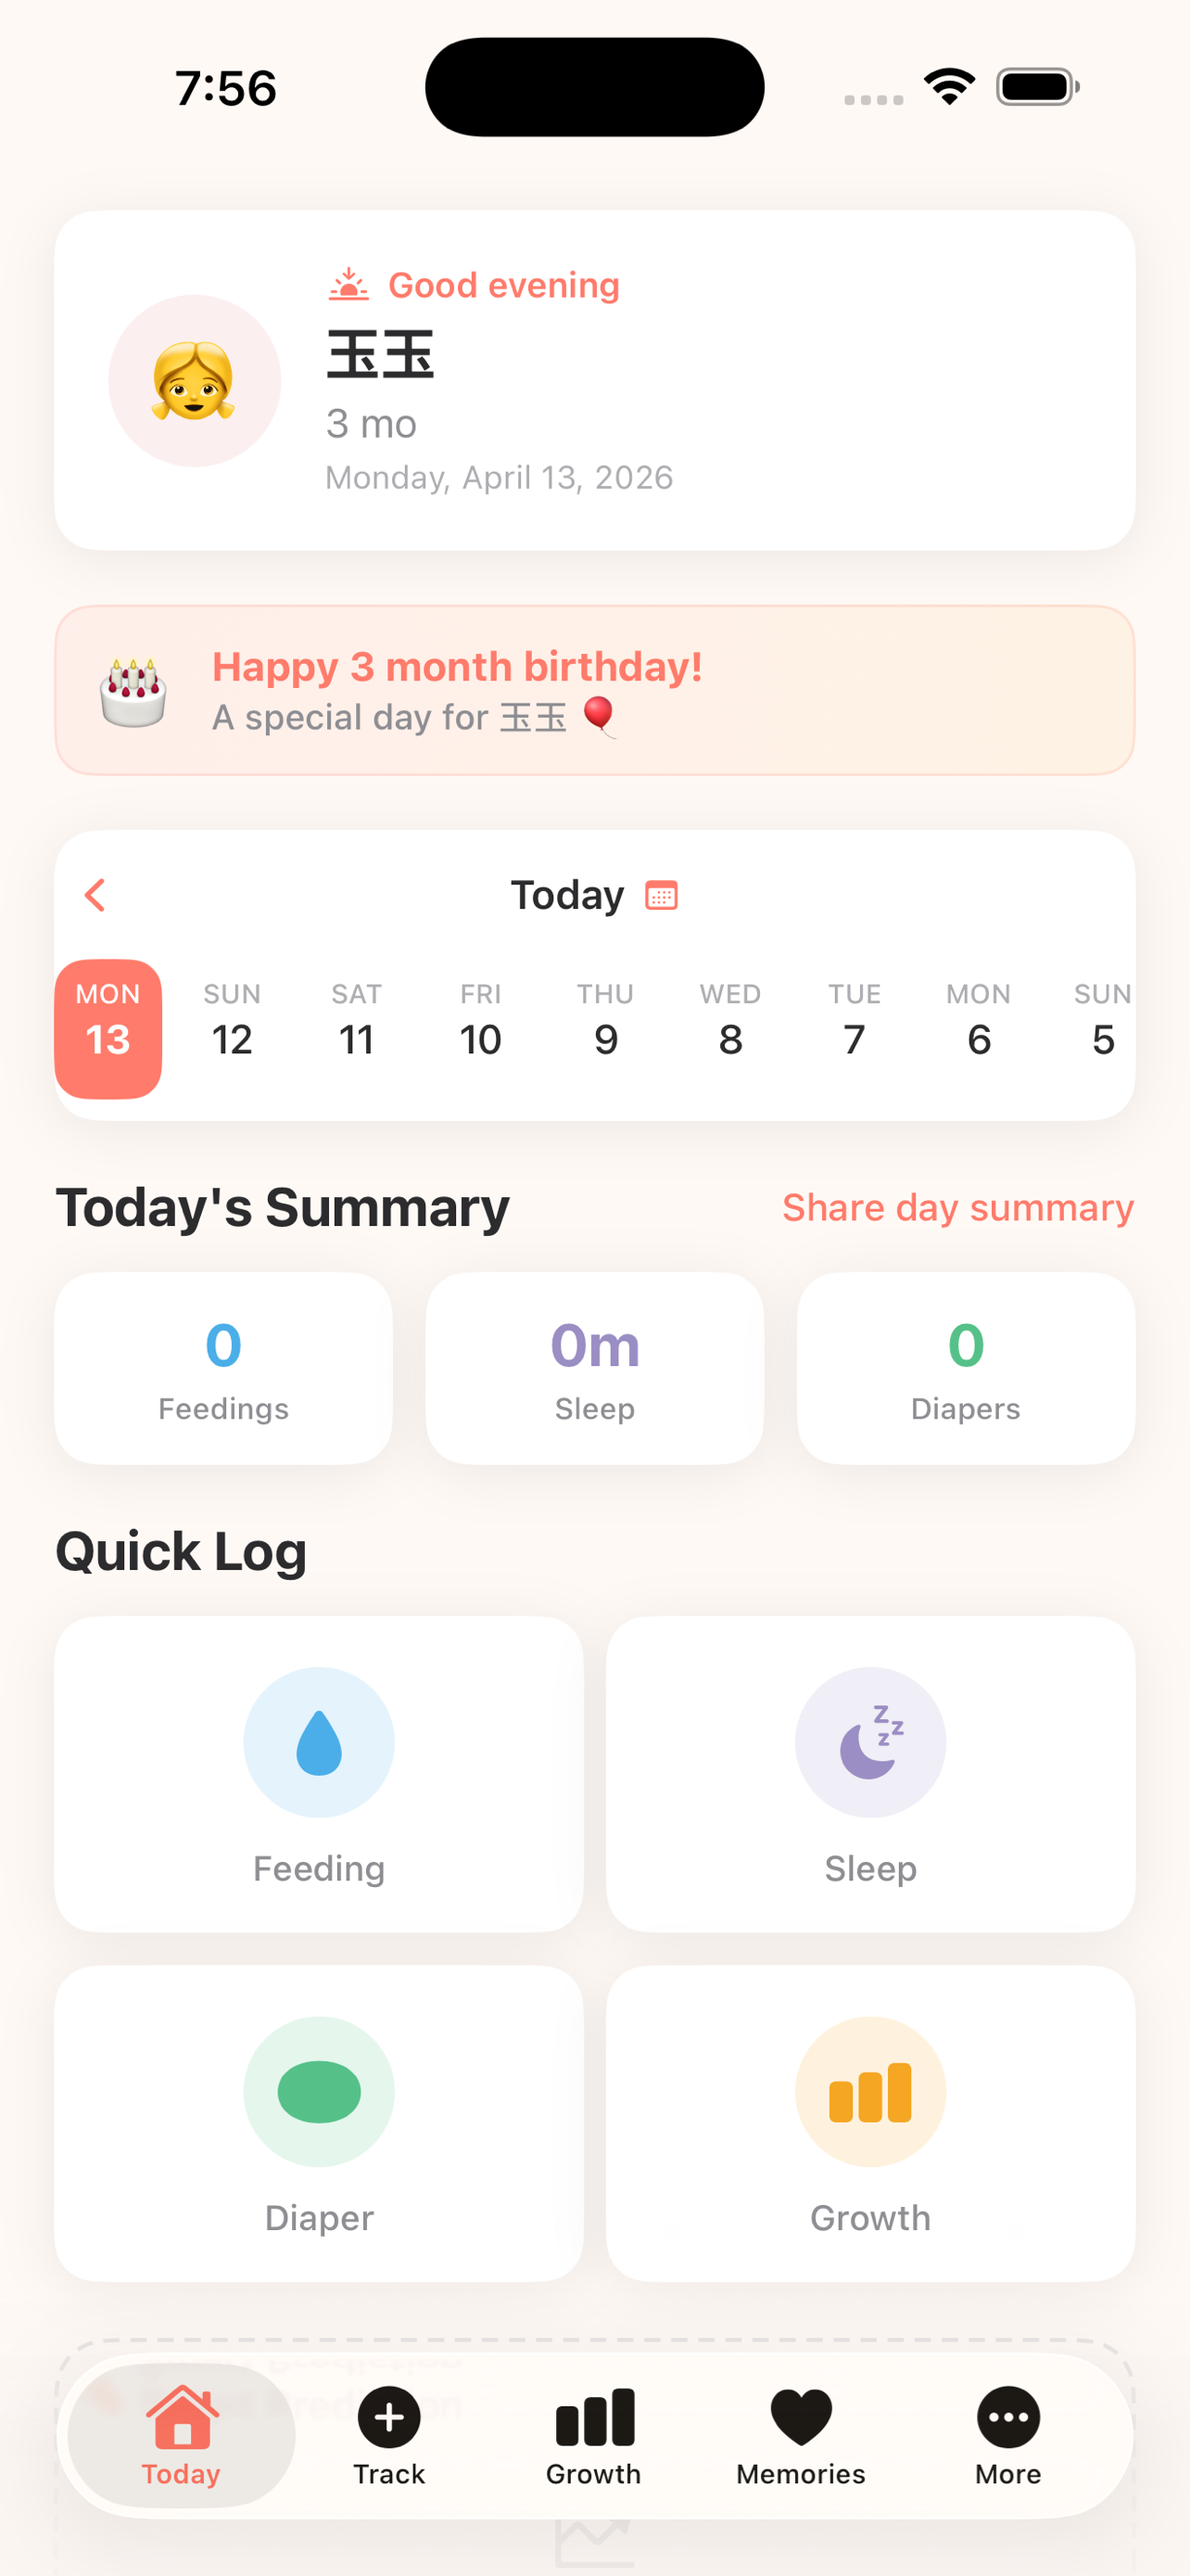
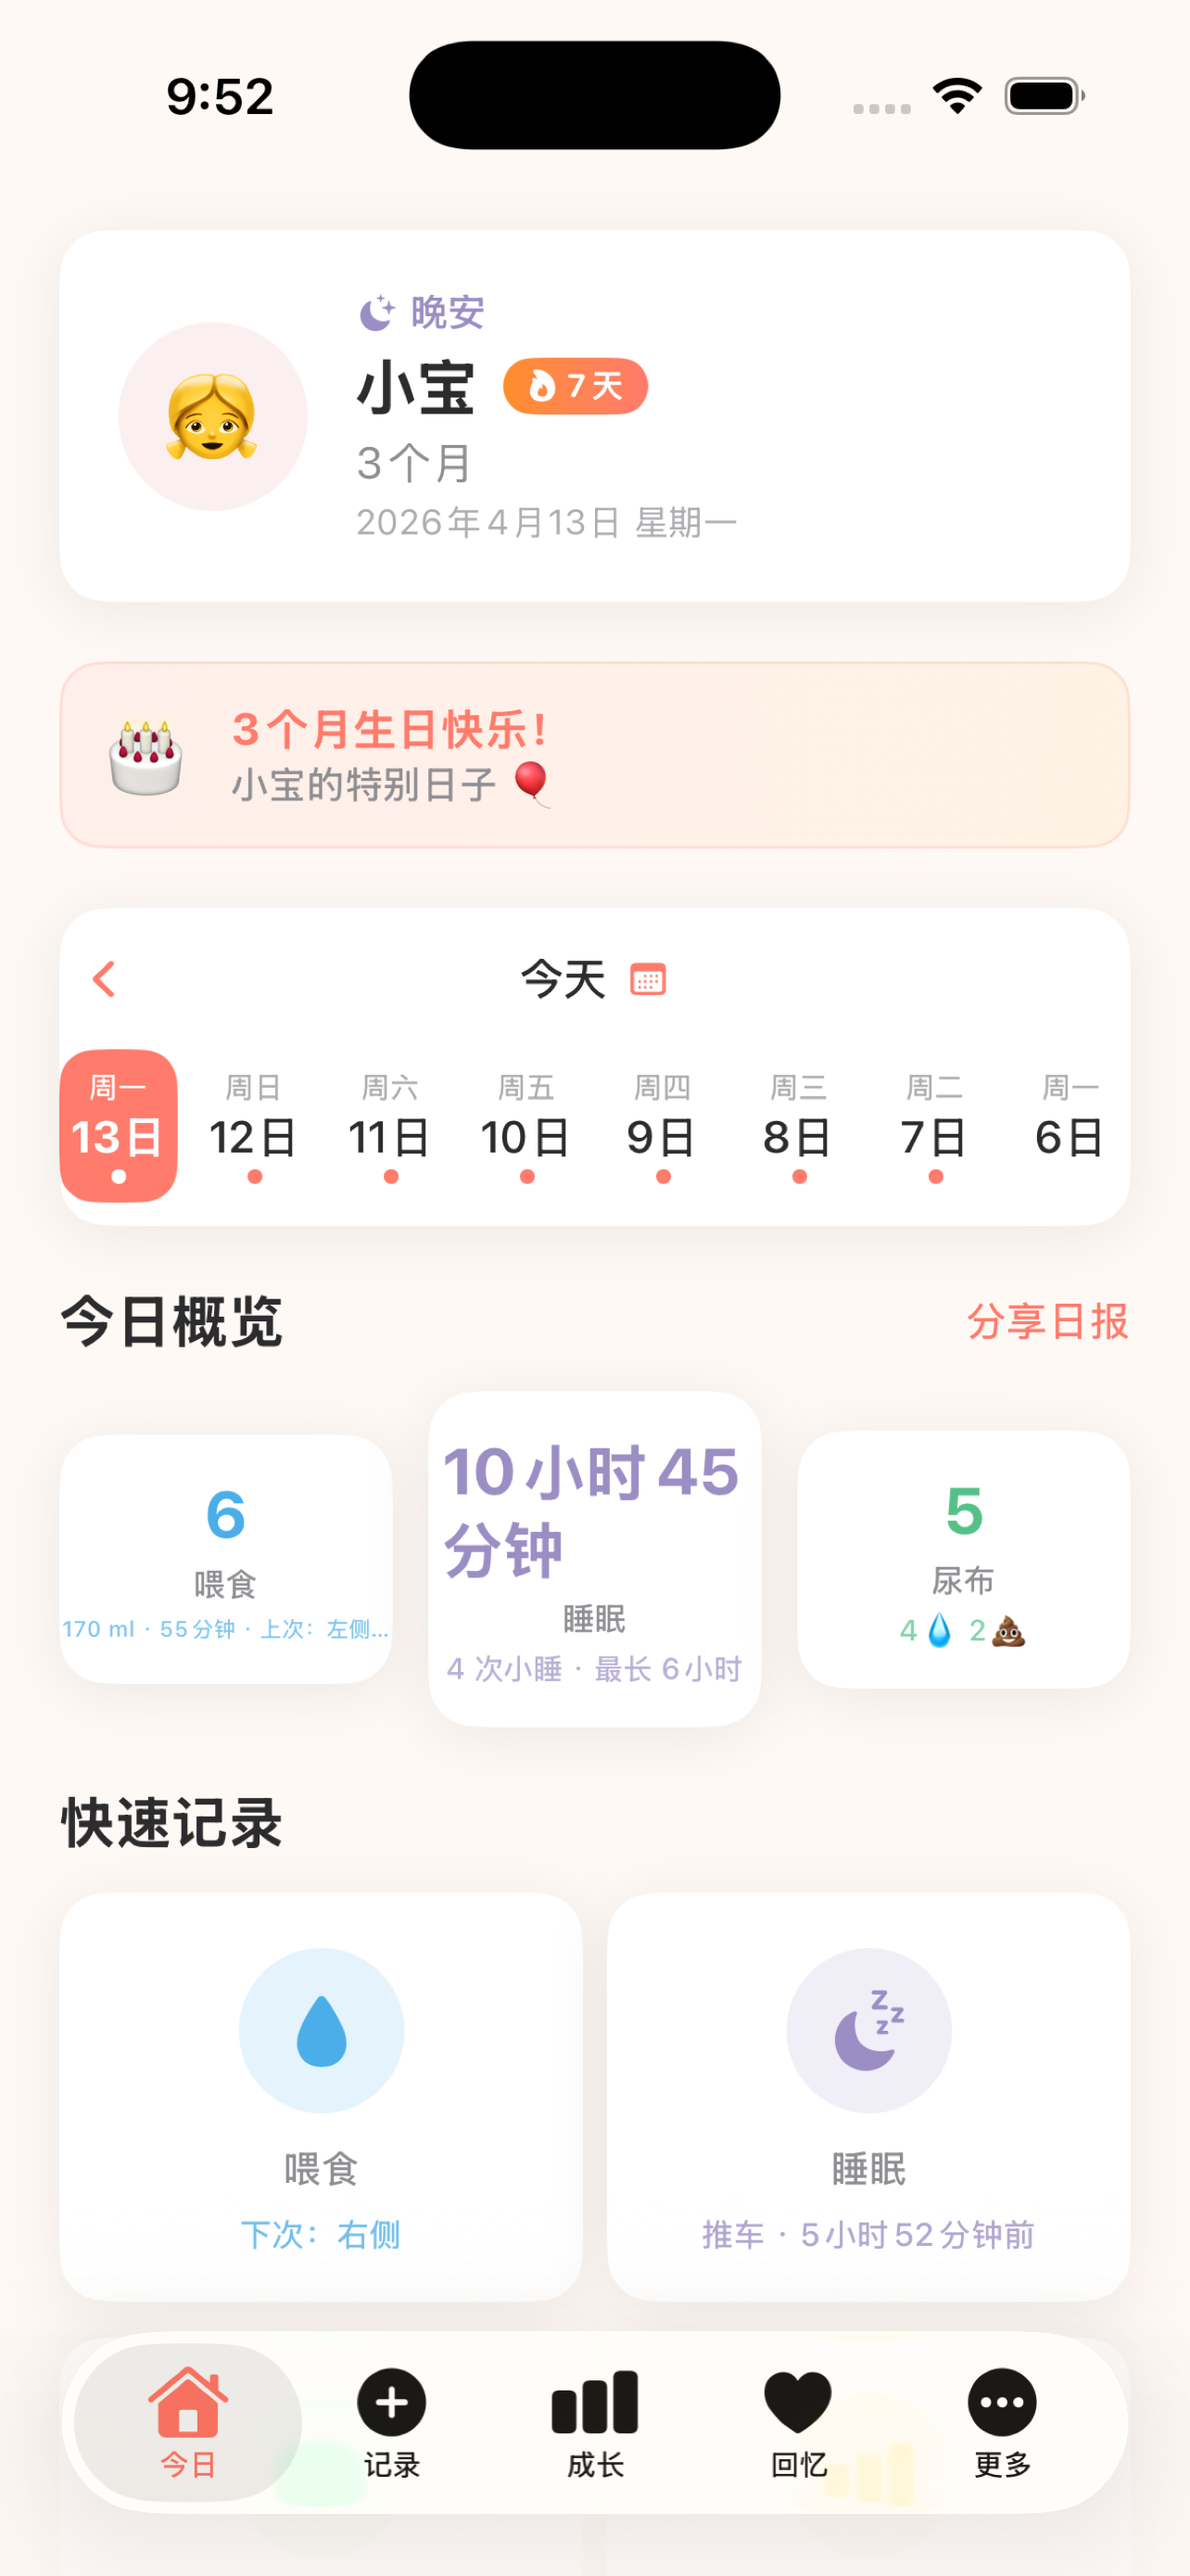
feat: add DemoDataSeeder and regenerate localized App Store screenshots
- Add DemoDataSeeder.swift (DEBUG-only) that injects realistic demo data:
  7 days of feeding/sleep/diaper records, 4 growth checkpoints, 6 milestones
- Trigger via SEED_DEMO_DATA=1 env var on simulator launch
- Regenerate all App Store screenshots (1284×2778px) in 4 languages:
  zh-Hans, en-US, ja, ko — each with proper locale via launch arguments

diff --git a/BabyLove/Debug/DemoDataSeeder.swift b/BabyLove/Debug/DemoDataSeeder.swift
@@ -1,0 +1,255 @@
+import CoreData
+import Foundation
+
+#if DEBUG
+/// Injects realistic demo data for App Store screenshots.
+/// Triggered by setting SEED_DEMO_DATA=1 environment variable.
+struct DemoDataSeeder {
+
+    static func seed(context: NSManagedObjectContext, appState: AppState) {
+        clearAll(context: context)
+
+        let birthDate = Calendar.current.date(from: DateComponents(year: 2026, month: 1, day: 13))!
+        let baby = Baby(name: "小宝", birthDate: birthDate, gender: .girl)
+        appState.completeOnboarding(with: baby)
+
+        let cal = Calendar.current
+        let today = cal.startOfDay(for: Date())
+
+        seedFeedings(context: context, today: today, cal: cal)
+        seedSleeps(context: context, today: today, cal: cal)
+        seedDiapers(context: context, today: today, cal: cal)
+        seedGrowth(context: context, cal: cal)
+        seedMilestones(context: context, cal: cal)
+
+        try? context.save()
+    }
+
+    // MARK: - Private
+
+    private static func clearAll(context: NSManagedObjectContext) {
+        for entity in ["CDFeedingRecord", "CDSleepRecord", "CDDiaperRecord", "CDGrowthRecord", "CDMilestone"] {
+            let req = NSFetchRequest<NSFetchRequestResult>(entityName: entity)
+            let delete = NSBatchDeleteRequest(fetchRequest: req)
+            try? context.execute(delete)
+        }
+        context.reset()
+    }
+
+    private static func dt(_ today: Date, day: Int, h: Int, m: Int, cal: Calendar) -> Date {
+        let base = cal.date(byAdding: .day, value: day, to: today)!
+        return cal.date(bySettingHour: h, minute: m, second: 0, of: base)!
+    }
+
+    // MARK: Feedings
+
+    private static func seedFeedings(context: NSManagedObjectContext, today: Date, cal: Calendar) {
+        // (dayOffset, hour, min, feedType, breastSide, durationMin, amountML)
+        let rows: [(Int, Int, Int, String, String?, Int16, Double)] = [
+            // Today
+            (0,  6, 30, "breast",  "left",  15, 0),
+            (0,  9,  0, "breast",  "right", 12, 0),
+            (0, 11, 30, "formula", nil,      0, 90),
+            (0, 14,  0, "breast",  "both",  18, 0),
+            (0, 16, 30, "breast",  "left",  10, 0),
+            (0, 19,  0, "formula", nil,      0, 80),
+            // Yesterday
+            (-1,  6,  0, "breast",  "right", 14, 0),
+            (-1,  8, 30, "breast",  "left",  11, 0),
+            (-1, 11,  0, "formula", nil,      0, 90),
+            (-1, 13, 30, "breast",  "both",  16, 0),
+            (-1, 16,  0, "breast",  "right", 13, 0),
+            (-1, 18, 30, "formula", nil,      0, 85),
+            (-1, 21,  0, "breast",  "left",   8, 0),
+            // 2 days ago
+            (-2,  5, 45, "breast",  "left",  12, 0),
+            (-2,  8, 15, "breast",  "right", 14, 0),
+            (-2, 11,  0, "formula", nil,      0, 90),
+            (-2, 13, 30, "breast",  "left",  15, 0),
+            (-2, 16,  0, "breast",  "both",  10, 0),
+            (-2, 19,  0, "formula", nil,      0, 80),
+            (-2, 22,  0, "breast",  "right",  9, 0),
+            // 3 days ago
+            (-3,  6, 30, "breast",  "left",  13, 0),
+            (-3,  9,  0, "breast",  "right", 15, 0),
+            (-3, 12,  0, "formula", nil,      0, 90),
+            (-3, 14, 30, "breast",  "both",  17, 0),
+            (-3, 17,  0, "breast",  "left",  11, 0),
+            (-3, 20,  0, "formula", nil,      0, 85),
+            // 4 days ago
+            (-4,  6,  0, "breast",  "right", 12, 0),
+            (-4,  9, 15, "formula", nil,      0, 90),
+            (-4, 12,  0, "breast",  "left",  16, 0),
+            (-4, 15,  0, "breast",  "both",  11, 0),
+            (-4, 18,  0, "formula", nil,      0, 85),
+            (-4, 21,  0, "breast",  "right", 10, 0),
+            // 5 days ago
+            (-5,  6, 30, "breast",  "left",  14, 0),
+            (-5,  9,  0, "breast",  "right", 12, 0),
+            (-5, 11, 30, "formula", nil,      0, 90),
+            (-5, 14,  0, "breast",  "left",  15, 0),
+            (-5, 17,  0, "breast",  "both",  10, 0),
+            (-5, 20,  0, "formula", nil,      0, 80),
+            // 6 days ago
+            (-6,  6,  0, "breast",  "right", 13, 0),
+            (-6,  8, 30, "formula", nil,      0, 90),
+            (-6, 11,  0, "breast",  "left",  14, 0),
+            (-6, 14,  0, "breast",  "right", 12, 0),
+            (-6, 17,  0, "formula", nil,      0, 85),
+            (-6, 20, 30, "breast",  "both",  11, 0),
+        ]
+        for (day, h, m, feed, side, dur, amt) in rows {
+            let r = CDFeedingRecord(context: context)
+            r.id = UUID()
+            r.timestamp = dt(today, day: day, h: h, m: m, cal: cal)
+            r.feedType = feed
+            r.breastSide = side
+            r.durationMinutes = dur
+            r.amountML = amt
+        }
+    }
+
+    // MARK: Sleeps
+
+    private static func seedSleeps(context: NSManagedObjectContext, today: Date, cal: Calendar) {
+        // (startDay, sh, sm, endDay, eh, em, location)
+        let rows: [(Int, Int, Int, Int, Int, Int, String)] = [
+            // Night before today
+            (-1, 21, 30,  0,  6,  0, "crib"),
+            // Today's naps
+            ( 0,  7,  0,  0,  8, 45, "crib"),
+            ( 0, 11,  0,  0, 12, 30, "bassinet"),
+            ( 0, 14, 30,  0, 16,  0, "stroller"),
+            // Night before yesterday
+            (-2, 21,  0, -1,  5, 45, "crib"),
+            // Yesterday's naps
+            (-1,  7, 30, -1,  9,  0, "crib"),
+            (-1, 12,  0, -1, 13, 30, "bassinet"),
+            (-1, 15,  0, -1, 16, 30, "carrier"),
+            // 2 days ago
+            (-3, 21, 30, -2,  6,  0, "crib"),
+            (-2,  8,  0, -2,  9, 30, "crib"),
+            (-2, 12, 30, -2, 14,  0, "bassinet"),
+            (-2, 16, 30, -2, 17, 30, "stroller"),
+            // 3 days ago
+            (-4, 21,  0, -3,  6,  0, "crib"),
+            (-3,  7, 30, -3,  9,  0, "crib"),
+            (-3, 12,  0, -3, 13, 30, "bassinet"),
+            (-3, 15, 30, -3, 17,  0, "carrier"),
+            // 4 days ago
+            (-5, 21, 30, -4,  6,  0, "crib"),
+            (-4,  8,  0, -4,  9, 30, "crib"),
+            (-4, 13,  0, -4, 14, 30, "bassinet"),
+            (-4, 16,  0, -4, 17, 30, "stroller"),
+            // 5 days ago
+            (-6, 21,  0, -5,  5, 45, "crib"),
+            (-5,  7, 30, -5,  9,  0, "crib"),
+            (-5, 12,  0, -5, 13, 30, "bassinet"),
+            (-5, 15,  0, -5, 16, 30, "carrier"),
+        ]
+        for (sd, sh, sm, ed, eh, em, loc) in rows {
+            let r = CDSleepRecord(context: context)
+            r.id = UUID()
+            r.startTime = dt(today, day: sd, h: sh, m: sm, cal: cal)
+            r.endTime   = dt(today, day: ed, h: eh, m: em, cal: cal)
+            r.location  = loc
+        }
+    }
+
+    // MARK: Diapers
+
+    private static func seedDiapers(context: NSManagedObjectContext, today: Date, cal: Calendar) {
+        let rows: [(Int, Int, Int, String)] = [
+            // Today
+            (0,  7, 15, "wet"),
+            (0,  9, 30, "dirty"),
+            (0, 12,  0, "wet"),
+            (0, 15,  0, "both"),
+            (0, 17, 30, "wet"),
+            // Yesterday
+            (-1,  6, 30, "wet"),
+            (-1,  9,  0, "dirty"),
+            (-1, 11, 30, "wet"),
+            (-1, 14,  0, "both"),
+            (-1, 16, 30, "wet"),
+            (-1, 19, 30, "dirty"),
+            // 2 days ago
+            (-2,  7,  0, "wet"),
+            (-2,  9, 30, "wet"),
+            (-2, 12,  0, "dirty"),
+            (-2, 15,  0, "both"),
+            (-2, 18,  0, "wet"),
+            // 3 days ago
+            (-3,  7, 15, "wet"),
+            (-3, 10,  0, "dirty"),
+            (-3, 13,  0, "wet"),
+            (-3, 16,  0, "both"),
+            (-3, 19,  0, "wet"),
+            // 4 days ago
+            (-4,  7,  0, "wet"),
+            (-4,  9, 30, "dirty"),
+            (-4, 12,  0, "wet"),
+            (-4, 15,  0, "both"),
+            (-4, 18, 30, "wet"),
+            // 5 days ago
+            (-5,  6, 45, "wet"),
+            (-5,  9,  0, "dirty"),
+            (-5, 12, 30, "wet"),
+            (-5, 15,  0, "both"),
+            (-5, 18,  0, "wet"),
+            // 6 days ago
+            (-6,  7,  0, "wet"),
+            (-6,  9, 30, "dirty"),
+            (-6, 13,  0, "both"),
+            (-6, 16,  0, "wet"),
+            (-6, 19, 30, "wet"),
+        ]
+        for (day, h, m, t) in rows {
+            let r = CDDiaperRecord(context: context)
+            r.id = UUID()
+            r.timestamp = dt(today, day: day, h: h, m: m, cal: cal)
+            r.diaperType = t
+        }
+    }
+
+    // MARK: Growth
+
+    private static func seedGrowth(context: NSManagedObjectContext, cal: Calendar) {
+        let rows: [(Int, Int, Int, Double, Double, Double)] = [
+            (2026, 1, 13, 3.20, 50.0, 34.0),  // birth
+            (2026, 2, 13, 4.50, 55.0, 37.0),  // 1 month
+            (2026, 3, 13, 5.80, 58.5, 39.5),  // 2 months
+            (2026, 4, 10, 6.50, 61.0, 41.0),  // 3 months
+        ]
+        for (y, mo, d, wt, ht, hc) in rows {
+            let r = CDGrowthRecord(context: context)
+            r.id = UUID()
+            r.date = cal.date(from: DateComponents(year: y, month: mo, day: d))!
+            r.weightKG = wt
+            r.heightCM = ht
+            r.headCircumferenceCM = hc
+        }
+    }
+
+    // MARK: Milestones
+
+    private static func seedMilestones(context: NSManagedObjectContext, cal: Calendar) {
+        let rows: [(String, String, Int, Int, Int)] = [
+            ("First Smile",          "social",    2026, 2, 20),
+            ("Holds Head Up",        "motor",     2026, 3,  1),
+            ("Recognizes Parents",   "social",    2026, 2, 28),
+            ("Coos & Babbles",       "language",  2026, 3, 15),
+            ("Reaches for Objects",  "motor",     2026, 4,  5),
+            ("First Bath",           "health",    2026, 1, 15),
+        ]
+        for (title, cat, y, mo, d) in rows {
+            let r = CDMilestone(context: context)
+            r.id = UUID()
+            r.title = title
+            r.category = cat
+            r.date = cal.date(from: DateComponents(year: y, month: mo, day: d))!
+            r.isCompleted = true
+        }
+    }
+}
+#endif

diff --git a/BabyLove/App/BabyLoveApp.swift b/BabyLove/App/BabyLoveApp.swift
@@ -18,6 +18,11 @@ struct BabyLoveApp: App {
             )
             state.completeOnboarding(with: testBaby)
         }
+        #if DEBUG
+        if ProcessInfo.processInfo.environment["SEED_DEMO_DATA"] == "1" {
+            DemoDataSeeder.seed(context: persistence.container.viewContext, appState: state)
+        }
+        #endif
         _appState = StateObject(wrappedValue: state)
     }
 
